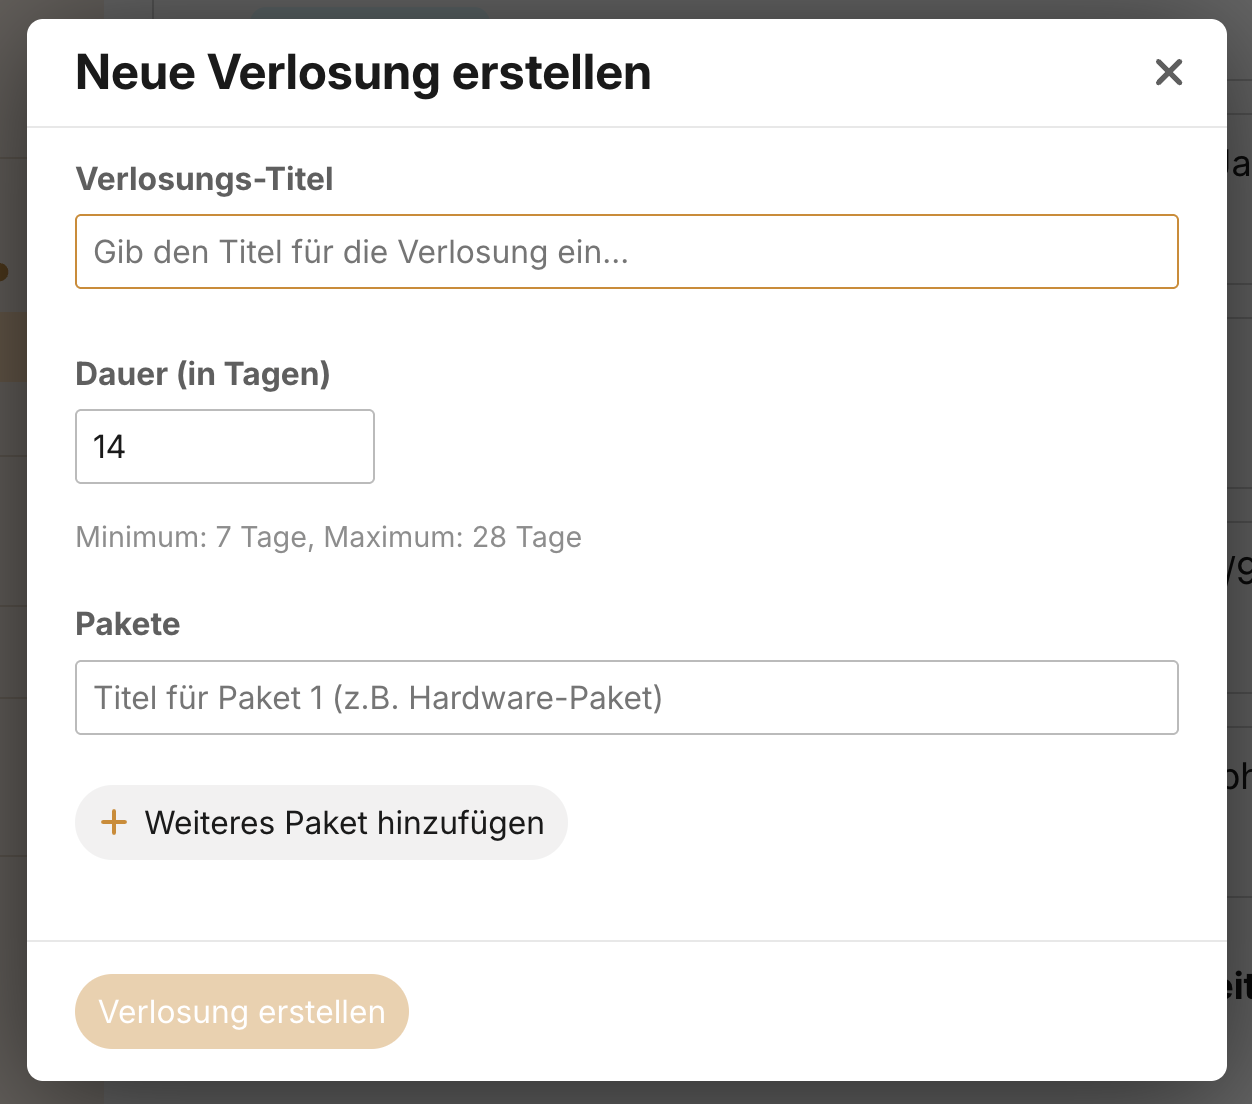
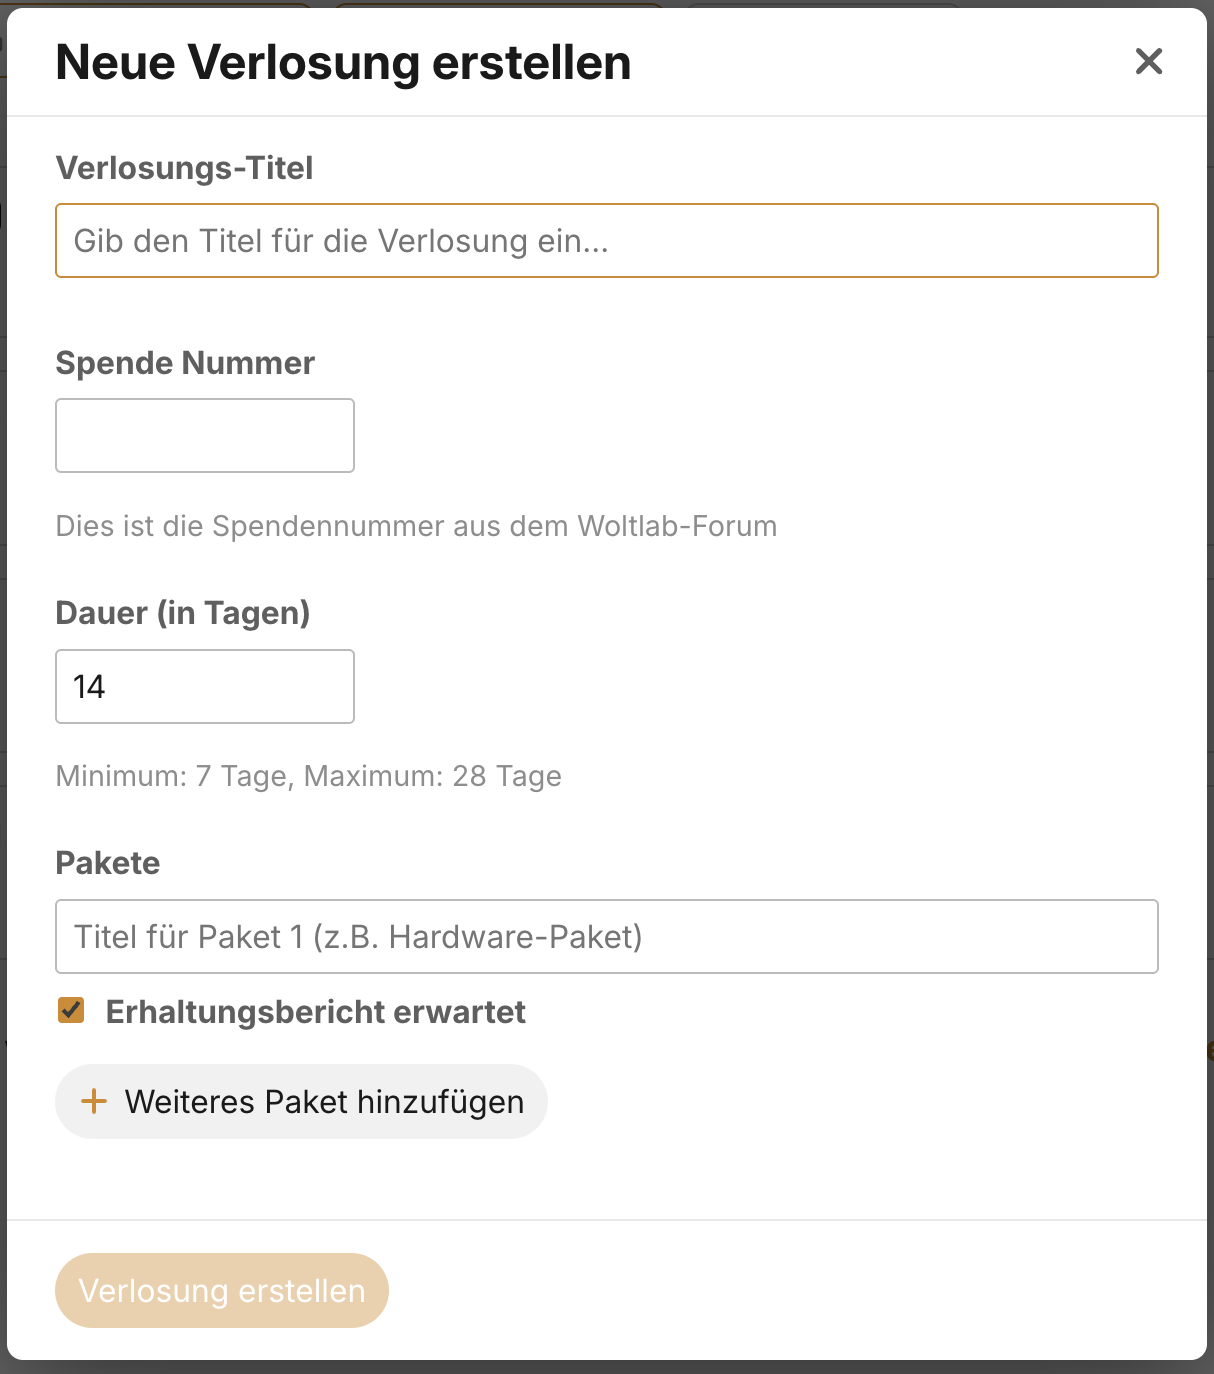
Benutzerhandbuch aktualisiert
- Optionale Erhaltungsberichte
 - Spendennummer

Changed region(s): [[0.0, 0.0, 1.0, 1.0], [0.1829, 0.5543, 0.4572, 0.5851]]

diff --git a/BENUTZERHANDBUCH.md b/BENUTZERHANDBUCH.md
@@ -61,6 +61,8 @@ Klicke auf den "Erhaltungsbericht schreiben" Button am Paket-Beitrag. Ein voraus
 
 Der Erhaltungsbericht wird automatisch in der "Erhaltungsberichte"-Kategorie veröffentlicht und mit dem ursprünglichen Paket verknüpft.
 
+Bei kleineren Paketen mit Zubehörteilen kann die Verpflichtung, einen Erhaltungsbericht zu schreiben, vom Ersteller der Verlosung aufgehoben werden.
+
 ---
 
 ## Als Verlosungsersteller
@@ -79,9 +81,11 @@ Im Formular gibst du folgende Informationen ein:
 
 **Titel:** Gib einen aussagekräftigen Titel für die Verlosung ein (z.B. "Spende von Mitglied XY – Retro-Computer und Zubehör").
 
+**Spende Nummer:** Trage hier die Nummer der Spende ein, die im Woltlab-System für die Abholung verwendet wurde
+
 **Laufzeit:** Lege die Laufzeit fest. Die Standardlaufzeit beträgt 14 Tage und sollte nur aus wichtigem Grund geändert werden (möglich sind 7-28 Tage).
 
-**Pakete:** Füge die einzelnen Pakete hinzu, die verlost werden sollen. Gib für jedes Paket einen aussagekräftigen Titel ein (z.B. "Amiga 500 mit Zubehör" oder "Commodore 64 Bundle"). Du kannst beliebig viele Pakete hinzufügen oder auch welche wieder entfernen.
+**Pakete:** Füge die einzelnen Pakete hinzu, die verlost werden sollen. Gib für jedes Paket einen aussagekräftigen Titel ein (z.B. "Amiga 500 mit Zubehör" oder "Commodore 64 Bundle"). Du kannst beliebig viele Pakete hinzufügen oder auch welche wieder entfernen.  Für jedes Paket kannst Du weiterhin die Verpflichtung des Gewinners, einen Erhaltungsbericht zu schreiben, entfernen.  Das sollte nur bei kleinen Paketen, die aus Zubehörteilen oder Verbrauchsmaterial bestehen, geschehen.
 
 Wenn alles eingetragen ist, klicke auf "Verlosung erstellen". Die Verlosung wird als Entwurf angelegt und es werden automatisch Beiträge für die Einleitung und jedes Paket erstellt.
 
@@ -200,13 +204,13 @@ Nein, pro Paket kannst du genau ein Los kaufen. Alle Teilnehmer haben die gleich
 Der Gewinner wird durch einen deterministischen Zufallsalgorithmus ermittelt, der im Browser läuft. Der Seed basiert auf dem Startzeitpunkt und allen Teilnehmernamen. Dadurch ist das Ergebnis nachvollziehbar und kann nicht manipuliert werden.
 
 **Kann ich als Ersteller an meiner eigenen Verlosung teilnehmen?**
-Ja, das ist ausdrücklich erlaubt. Da der Ziehungsalgorithmus deterministisch ist und auf dem Startzeitpunkt sowie den Teilnehmernamen basiert, kann das Ergebnis nicht manipuliert werden – auch nicht durch den Ersteller selbst. Jeder Teilnehmer hat die gleiche faire Gewinnchance.
+Ja, das ist erlaubt. Da der Ziehungsalgorithmus deterministisch ist und auf dem Startzeitpunkt sowie den Teilnehmernamen basiert, kann das Ergebnis nicht manipuliert werden – auch nicht durch den Ersteller selbst. Jeder Teilnehmer hat die gleiche faire Gewinnchance.
 
 **Was passiert, wenn ein Gewinner sein Paket nicht abholt?**
 Der Ersteller erhält wöchentliche Erinnerungen über nicht erhaltene Pakete. Was mit nicht abgeholten Paketen passiert, sollte bereits in der Verlosungsbeschreibung angegeben sein. Üblicherweise kommen sie entweder in eine neue Verlosung oder der Organisator behält sie für seine Sammlung.
 
 **Muss ich wirklich einen Erhaltungsbericht schreiben?**
-Ja, der Erhaltungsbericht wird von allen Gewinnern erwartet, da er dokumentiert, was aus den gespendeten Gegenständen wurde. Du erhältst wöchentliche Erinnerungen, bis du den Bericht verfasst hast.
+Ja, der Erhaltungsbericht wird von Gewinnern erwartet, da er dokumentiert, was aus den gespendeten Gegenständen wurde. Du erhältst wöchentliche Erinnerungen, bis du den Bericht verfasst hast.  Bei kleinen Paketen, die nur aus Verbrauchsmaterialien oder Zubehörteilen bestehen, kann der Ersteller der Verlosung die Notwendigkeit eines Erfahrungsberichts abschalten.
 
 **Kann ich eine Verlosung nach der Veröffentlichung noch ändern?**
 Du kannst die Beschreibungen der Beiträge weiterhin bearbeiten, aber keine Pakete mehr hinzufügen oder entfernen. Füge daher alle Pakete bereits beim Erstellen hinzu.
